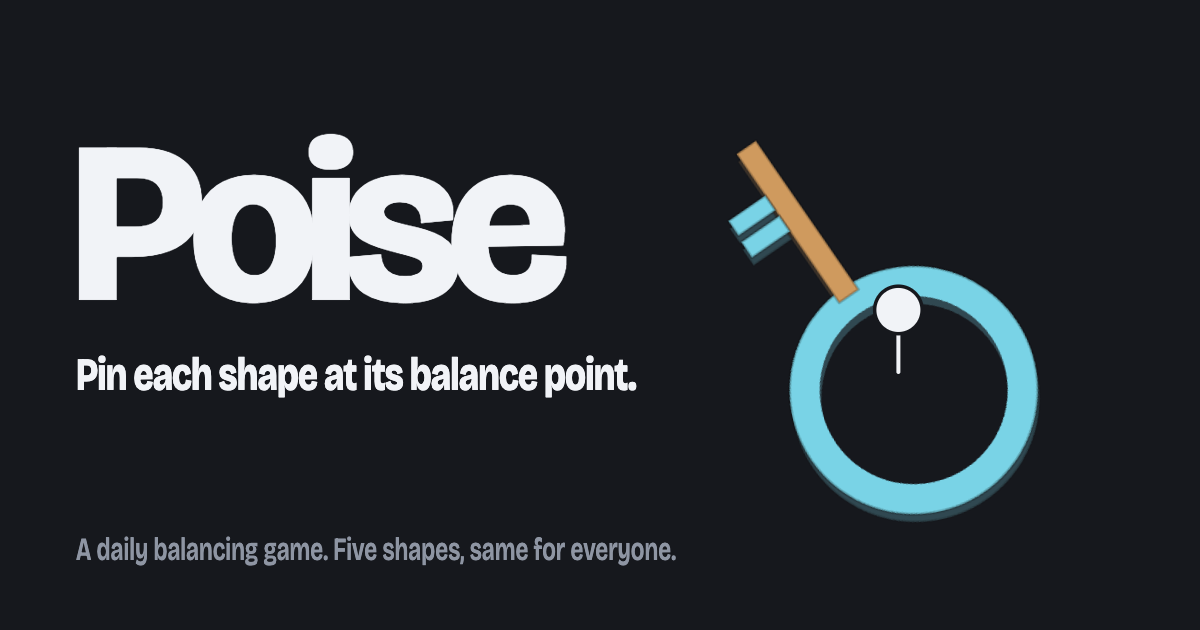
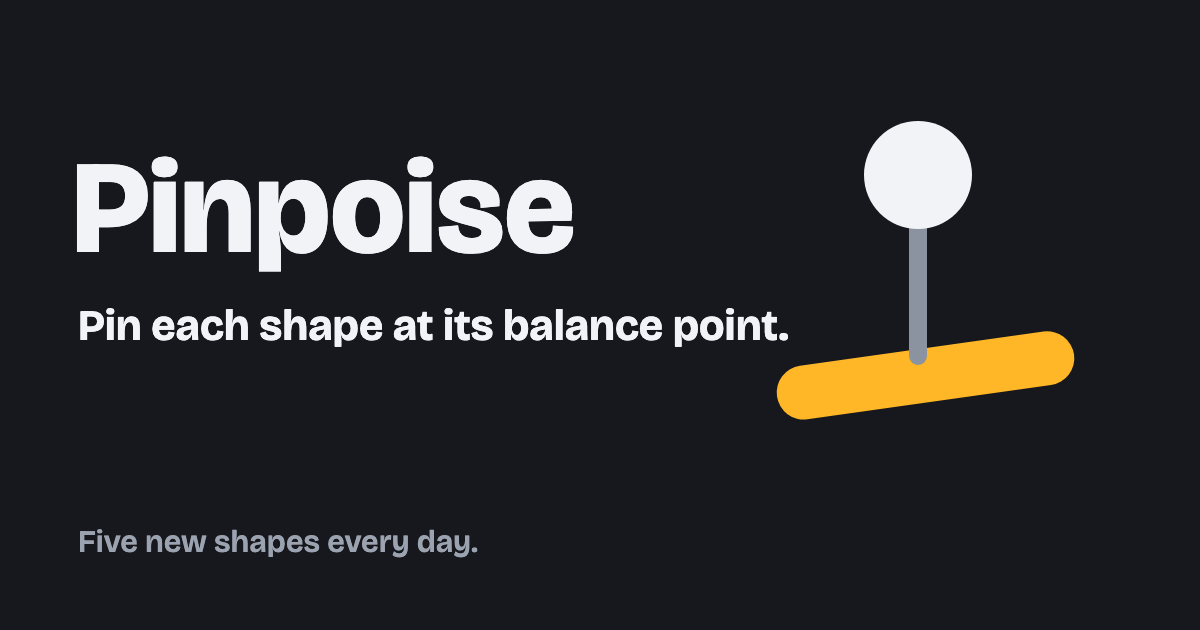
Rebrand Poise as Pinpoise

Changed region(s): [[0.0617, 0.181, 0.8942, 0.8444], [0.0617, 0.8444, 0.555, 0.9048]]

diff --git a/Source/index.html b/Source/index.html
@@ -3,36 +3,41 @@
 <head>
 <meta charset="utf-8">
 <meta name="viewport" content="width=device-width, initial-scale=1, viewport-fit=cover">
-<title>Poise: the daily balancing game</title>
-<meta name="description" content="Five shapes a day. Place the pin where each one balances. A daily physics puzzle, the same shapes for everyone. Free, no account.">
+<title>Pinpoise: Find the Balance Point</title>
+<meta name="description" content="Five new shapes every day. Place the pin where each one balances, then compare your score with other players. Free, no account.">
 <meta name="google-site-verification" content="KyjTWZ-dj4P5R8ARNsz_ixJ3lDf_xHzlX2uDuGJIndo">
 <meta name="theme-color" content="#eceef2" media="(prefers-color-scheme: light)">
 <meta name="theme-color" content="#16181d" media="(prefers-color-scheme: dark)">
 <meta name="color-scheme" content="light dark">
-<link rel="canonical" href="%SITE_URL%/">
-<meta property="og:site_name" content="Poise">
-<meta property="og:title" content="Poise: the daily balancing game">
-<meta property="og:description" content="Five shapes a day. Find where each one balances, then see how you compare.">
+<link rel="canonical" href="https://poisedaily.com/">
+<meta name="application-name" content="Pinpoise">
+<meta property="og:site_name" content="Pinpoise">
+<meta property="og:title" content="Pinpoise: Find the Balance Point">
+<meta property="og:description" content="Five new shapes every day. Find where each one balances, then compare your score.">
 <meta property="og:type" content="website">
-<meta property="og:url" content="%SITE_URL%/">
-<meta property="og:image" content="%SITE_URL%/og.png">
+<meta property="og:url" content="https://poisedaily.com/">
+<meta property="og:image" content="https://poisedaily.com/og.png">
 <meta property="og:image:width" content="1200">
 <meta property="og:image:height" content="630">
-<meta property="og:image:alt" content="Poise: a wooden key shape balanced on a pin, with the words Pin each shape at its balance point.">
+<meta property="og:image:alt" content="Pinpoise, a daily game about finding where shapes balance.">
 <meta name="twitter:card" content="summary_large_image">
 <meta name="apple-mobile-web-app-capable" content="yes">
 <meta name="mobile-web-app-capable" content="yes">
-<meta name="apple-mobile-web-app-title" content="Poise">
+<meta name="apple-mobile-web-app-title" content="Pinpoise">
 <meta name="apple-mobile-web-app-status-bar-style" content="default">
-<link rel="icon" href="/favicon-48.png" type="image/png" sizes="48x48">
+<link rel="icon" href="/favicon-48.png" type="image/png" sizes="96x96">
+<link rel="shortcut icon" href="/favicon.ico">
 <link rel="apple-touch-icon" href="/apple-touch-icon.png">
 <link rel="manifest" href="/manifest.webmanifest">
 <link rel="preload" href="/fonts/bricolage-latin.woff2" as="font" type="font/woff2" crossorigin>
+<script type="application/ld+json">
+{"@context":"https://schema.org","@type":"WebSite","name":"Pinpoise","alternateName":["poisedaily.com"],"url":"https://poisedaily.com/"}
+</script>
 </head>
 <body>
 <main id="app"></main>
 <div id="sr" class="vh" role="status" aria-live="polite" aria-atomic="true"></div>
-<noscript><p style="font:600 1.1rem/1.4 system-ui,sans-serif;padding:24px;max-width:32rem">Poise is a daily balancing game and needs JavaScript. Turn it on and reload to play today’s five shapes.</p></noscript>
+<noscript><p style="font:600 1.1rem/1.4 system-ui,sans-serif;padding:24px;max-width:32rem">Pinpoise is a daily balancing game and needs JavaScript. Turn it on and reload to play today’s five shapes.</p></noscript>
 <script type="module" src="/src/main.ts"></script>
 </body>
 </html>

diff --git a/Source/src/game.ts b/Source/src/game.ts
@@ -191,15 +191,23 @@ function matsOf(R: Shape) {
 
 function legend(R: Shape) {
   const u = matsOf(R);
-  const maxDensity = Math.max(...u.map((t) => MAT[t][1]));
+  const densities = u.map((t) => MAT[t][1]);
+  const minDensity = Math.min(...densities);
+  const maxDensity = Math.max(...densities);
   const items = u
     .map((t) => {
       const name = t[0].toUpperCase() + t.slice(1);
-      const width = Math.max(10, (MAT[t][1] / maxDensity) * 100);
-      return `<span class="lg-item" role="listitem" aria-label="${name}, density ${MAT[t][1]} grams per cubic centimetre"><span class="lg-name"><i class="lg-swatch" style="background:${MAT[t][0] || R.a}"></i><b>${name}</b><em>${MAT[t][1]} g/cm³</em></span><span class="lg-track" aria-hidden="true"><i style="width:${width}%"></i></span></span>`;
+      const density = MAT[t][1];
+      const ratio = density / minDensity;
+      const ratioText = (
+        ratio < 10 ? ratio.toFixed(1) : ratio.toFixed(0)
+      ).replace(".0", "");
+      const width = Math.max(12, (density / maxDensity) * 100);
+      const color = MAT[t][0] || R.a;
+      return `<span class="lg-item" role="listitem" style="--material:${color}" aria-label="${name}, ${ratioText} times the lightest material, density ${density} grams per cubic centimetre"><span class="lg-name"><i class="lg-swatch"></i><b>${name}</b><em>${ratioText}×</em></span><span class="lg-track" aria-hidden="true"><i style="width:${width}%"></i></span><small class="lg-density">${density} g/cm³</small></span>`;
     })
     .join("");
-  return `<div class="lg-wrap"><div class="lg-title"><b>Density</b><span>Heavier material pulls more</span></div><div class="lg" role="list" aria-label="Material density, lightest first">${items}</div></div>`;
+  return `<div class="lg-wrap"><div class="lg-title"><b>Density</b><span>More density. More pull.</span></div><div class="lg" role="list" aria-label="Material density, lightest first">${items}</div></div>`;
 }
 const dots = (g: Game) =>
   `<span class="dots" role="img" aria-label="Shape ${Math.min(g.r + 1, RN)} of ${RN}">${[...Array(RN)].map((_, i) => `<i class="${i < g.res.length ? "g" + gi(g.res[i].pts) : i === g.r ? "cur" : ""}"></i>`).join("")}</span>`;
@@ -232,7 +240,7 @@ function round() {
     : matchMedia("(pointer:coarse)").matches
       ? TAP_HINT
       : DRAG_HINT;
-  app.innerHTML = `<header class="site-header"><span class="wordmark">Poise</span>${navBtns()}</header>
+  app.innerHTML = `<header class="site-header"><span class="wordmark">Pinpoise</span>${navBtns()}</header>
   <div class="round-header"><span class="mute">No. ${noOf(g.d)} / Object ${g.r + 1} of ${RN}</span>${dots(g)}<span><b id="sc">${total(g)}</b><span class="mute"> / 500</span></span></div>
   <div id="stage"><canvas id="cv"></canvas></div><div class="foot fx" id="ft"><div class="object-heading"><h1 class="lede">${R.name}</h1>${legend(R)}</div><p class="small rule">Aim for the center of mass. It can lie in a gap.</p><span class="mute small" id="hint">${hint}</span><button class="btn" id="dp" disabled>Drop pin</button></div>`;
   app.scrollTop = 0;

diff --git a/Source/src/style.css b/Source/src/style.css
@@ -491,24 +491,27 @@ canvas {
 }
 .lg-wrap {
   width: 100%;
-  padding-top: 10px;
-  border-top: 1px solid var(--line);
+  padding: 12px;
+  border: 1px solid var(--line);
+  border-radius: var(--r-sheet);
+  background: color-mix(in srgb, var(--card) 46%, transparent);
 }
 .lg-title {
   display: flex;
   justify-content: space-between;
   align-items: baseline;
   gap: 16px;
-  margin-bottom: 10px;
+  margin-bottom: 12px;
 }
 .lg-title b {
-  font-size: 0.75rem;
+  font-size: 0.8125rem;
   letter-spacing: 0.08em;
   text-transform: uppercase;
 }
 .lg-title span {
-  color: var(--mute);
-  font-size: 0.75rem;
+  color: var(--ink);
+  font-size: 0.8125rem;
+  font-weight: 700;
 }
 .lg {
   display: grid;
@@ -524,14 +527,15 @@ canvas {
 }
 .lg-name {
   display: grid;
-  grid-template-columns: 22px minmax(0, 1fr) auto;
+  grid-template-columns: 26px minmax(0, 1fr) auto;
   gap: 8px;
   align-items: center;
 }
 .lg-swatch {
-  width: 22px;
-  height: 22px;
+  width: 26px;
+  height: 26px;
   border-radius: 6px;
+  background: var(--material);
   box-shadow: inset 0 0 0 1px color-mix(in srgb, var(--ink) 22%, transparent);
 }
 .lg-item b {
@@ -543,25 +547,36 @@ canvas {
   white-space: nowrap;
 }
 .lg-item em {
+  color: var(--ink);
+  font-size: 1rem;
+  font-weight: 800;
   font-style: normal;
-  color: var(--mute);
-  font-size: 0.75rem;
   font-variant-numeric: tabular-nums;
+  line-height: 1;
   white-space: nowrap;
+}
+.lg-density {
+  align-self: flex-end;
+  color: var(--mute);
+  font-size: 0.6875rem;
+  font-variant-numeric: tabular-nums;
+  line-height: 1;
 }
 .lg-track {
   display: block;
   width: 100%;
-  height: 5px;
+  height: 9px;
   overflow: hidden;
   border-radius: var(--r-round);
-  background: var(--line);
+  background: color-mix(in srgb, var(--line) 70%, transparent);
+  box-shadow: inset 0 0 0 1px var(--line);
 }
 .lg-track i {
   display: block;
   height: 100%;
   border-radius: inherit;
-  background: var(--ink);
+  background: var(--material);
+  box-shadow: inset 0 0 0 1px color-mix(in srgb, var(--ink) 24%, transparent);
 }
 .row {
   display: flex;

diff --git a/Source/src/end.ts b/Source/src/end.ts
@@ -50,13 +50,13 @@ export function end(rec: Rec, isNew: boolean) {
     names = rs.map((s) => s.name),
     rank = rankOf(rec.tot);
   app.innerHTML = `<section id="result-sheet" aria-label="Your results">
-    <header class="receipt-heading site-header"><span class="wordmark">Poise</span><div data-copy-exclude>${navBtns()}</div></header>
+    <header class="receipt-heading site-header"><span class="wordmark">Pinpoise</span><div data-copy-exclude>${navBtns()}</div></header>
     <div class="result-summary"><div class="rank-summary"><p class="mute small">No. ${noOf(rec.d)} · ${fmtDate(rec.d, true)}</p><h1 class="rank-pill" id="eh" tabindex="-1">${rank}</h1>${bellCurve(rec.tot)}${isNew ? '<p class="mute small">Personal best</p>' : ""}</div><p class="total"><b>${rec.tot}</b><span>/ 500</span></p></div>
     <div class="result-objects">${objects(rec, names, dpr)}</div>
     <div class="receipt-footer"><span class="pin-key"><i class="key-player"></i>Your pin <i class="key-target"></i>Balance point</span></div>
   </section>
   <div id="share-card" class="share-card" aria-hidden="true">
-    <div class="share-top"><span class="wordmark">Poise</span><span class="mute small">No. ${noOf(rec.d)} · ${fmtDate(rec.d, true)}</span></div>
+    <div class="share-top"><span class="wordmark">Pinpoise</span><span class="mute small">No. ${noOf(rec.d)} · ${fmtDate(rec.d, true)}</span></div>
     <div class="share-score"><div class="share-rank"><p class="share-tier rank-pill">${rank}${isNew ? " · Personal best" : ""}</p>${bellCurve(rec.tot)}</div><p class="total"><b>${rec.tot}</b><span>/ 500</span></p></div>
     <div class="result-objects">${objects(rec, names, 2)}</div>
     <div class="share-foot"><span class="pin-key"><i class="key-player"></i>Your pin <i class="key-target"></i>Balance point</span><span>${siteHost}</span></div>

diff --git a/Source/src/home.ts b/Source/src/home.ts
@@ -117,7 +117,7 @@ export function home() {
   app.className = "home-screen";
   if (!available(TODAY)) {
     stop();
-    app.innerHTML = `<header class="site-header"><span class="edition">Poise</span>${navBtns()}</header><div class="intro"><h1>Poise</h1><p class="pitch">Every shape in this edition has had its day.</p><p class="home-rule mute">A new edition is needed for fresh daily puzzles. Your archive and results are still here.</p></div>`;
+    app.innerHTML = `<header class="site-header"><span class="edition">Pinpoise</span>${navBtns()}</header><div class="intro"><h1>Pinpoise</h1><p class="pitch">Every shape in this edition has had its day.</p><p class="home-rule mute">A new edition is needed for fresh daily puzzles. Your archive and results are still here.</p></div>`;
     bindNav();
     return;
   }
@@ -138,7 +138,7 @@ export function home() {
       ? `Continue · ${Math.min(cont.length + 1, RN)} of ${RN}`
       : "Play today’s five";
   app.innerHTML = `<header class="site-header"><span class="edition">No. ${NO}<br><span class="mute">${fmtDate(TODAY, true)}</span></span>${navBtns()}</header>
-  <div class="intro"><h1>Poise</h1><p class="pitch">Pin each shape at its balance point.</p><p class="home-rule mute small">Aim for the center of mass, even in a gap.<br>Closer pins score more.</p></div>
+  <div class="intro"><h1>Pinpoise</h1><p class="pitch">Pin each shape at its balance point.</p><p class="home-rule mute small">Aim for the center of mass, even in a gap.<br>Closer pins score more.</p></div>
   <div id="stage"><canvas id="cv" aria-hidden="true"></canvas></div>
   <p class="cap mute small" id="cap" aria-hidden="true"></p>
   <div class="foot home-foot"><div class="edition"><span>${d ? "Today’s five · Complete" : "Today’s five"}</span></div>

diff --git a/Source/src/share.ts b/Source/src/share.ts
@@ -40,10 +40,11 @@ const SQUARES = [
 /** Wordle-style text: title, total, one square per shape. */
 export function shareText(r: Rec) {
   const site = (
-    (import.meta.env.VITE_SITE_URL as string | undefined) || ""
+    (import.meta.env.VITE_SITE_URL as string | undefined) ||
+    "https://poisedaily.com"
   ).replace(/\/$/, "");
   const lines = [
-    `Poise No. ${noOf(r.d)}  ${r.tot}/500`,
+    `Pinpoise No. ${noOf(r.d)}  ${r.tot}/500`,
     r.pts.map((p) => SQUARES[gi(p)]).join(""),
   ];
   if (site) lines.push(site);
@@ -83,7 +84,7 @@ export async function copyResult(r: Rec) {
   status.textContent = "";
   if (!navigator.clipboard?.write || typeof ClipboardItem === "undefined") {
     status.textContent =
-      "This browser can’t copy images. Use Copy text, or open Poise in Safari, Chrome or Edge.";
+      "This browser can’t copy images. Use Copy text, or open Pinpoise in Safari, Chrome or Edge.";
     return;
   }
   button.disabled = true;
@@ -166,7 +167,7 @@ export async function paintShare(source: HTMLElement): Promise<Blob> {
   const mute = css("--mute") || "#5f6674";
   const line = css("--line") || "#cdd2db";
   const wordmark =
-    source.querySelector(".wordmark")?.textContent?.trim() || "Poise";
+    source.querySelector(".wordmark")?.textContent?.trim() || "Pinpoise";
   const date =
     source.querySelector(".share-top .mute")?.textContent?.trim() || "";
   const tier = source.querySelector(".share-tier")?.textContent?.trim() || "";

diff --git a/Source/vite.config.ts b/Source/vite.config.ts
@@ -1,15 +1,7 @@
-import { defineConfig, loadEnv, type Plugin } from 'vite';
+import { defineConfig } from 'vite';
 
-/** Fills %SITE_URL% in index.html from VITE_SITE_URL (e.g. https://poise.example), so share cards get absolute URLs. */
-const siteUrl = (url: string): Plugin => ({
-  name: 'site-url',
-  transformIndexHtml: html => html.replaceAll('%SITE_URL%', url.replace(/\/$/, '')),
-  buildStart() { if (!url && process.env.NODE_ENV === 'production') console.warn('\n[poise] VITE_SITE_URL is not set: share cards (og:image) and the canonical link will be relative. Set it to your public URL before deploying.\n') },
-});
-
-export default defineConfig(({ mode }) => ({
+export default defineConfig({
   base: './',
-  plugins: [siteUrl(loadEnv(mode, process.cwd(), 'VITE_').VITE_SITE_URL ?? '')],
   server: { port: 5173, strictPort: true },
   build: { target: 'es2020', sourcemap: true },
-}));
+});

diff --git a/Source/src/dom.ts b/Source/src/dom.ts
@@ -25,7 +25,7 @@ export function say(msg: string) {
   }, 60);
 }
 export const setTitle = (s: string) => {
-  document.title = s ? `${s} · Poise` : "Poise: the daily balancing game";
+  document.title = s ? `${s} · Pinpoise` : "Pinpoise: Find the Balance Point";
 };
 export const eob = (u: number) =>
   1 + 2.7 * Math.pow(u - 1, 3) + 1.7 * Math.pow(u - 1, 2);
@@ -39,7 +39,7 @@ export const GRADES: [number, string][] = [
   [0, "Way off"],
 ];
 export const gi = (p: number) => GRADES.findIndex((q) => p >= q[0]);
-/** Estimated score percentile until Poise has a shared, opt-in score distribution. */
+/** Estimated score percentile until Pinpoise has a shared, opt-in score distribution. */
 export function percentileOf(total: number) {
   const z = (cl(total, 0, 500) - 225) / (85 * Math.SQRT2);
   const a = 0.147;

diff --git a/Source/public/sw.js b/Source/public/sw.js
@@ -1,4 +1,4 @@
-// Poise service worker: lets the game open and play offline. Today's puzzle only depends on the date, so it works with no network.
+// Pinpoise service worker: lets the game open and play offline. Today's puzzle only depends on the date, so it works with no network.
 // HTML is network-first so a new deploy is picked up as soon as you are online. Hashed assets never change, so they are cache-first.
 const CACHE = 'poise-v8';
 const SHELL = ['./', './manifest.webmanifest', './icon.svg'];

diff --git a/.tastemaker/style-lock.md b/.tastemaker/style-lock.md
@@ -1,8 +1,8 @@
-# Poise style lock
+# Pinpoise style lock
 
 ## North star
 
-Poise should feel like a quiet, self-explanatory daily balancing game.
+Pinpoise should feel like a quiet, self-explanatory daily balancing game.
 
 ## Visual system
 
@@ -14,7 +14,7 @@ Poise should feel like a quiet, self-explanatory daily balancing game.
 
 ## Palette
 
-Restored from the original Poise palette after the warm direction was rejected.
+Restored from the original palette after the warm direction was rejected.
 
 ### Light
 
@@ -43,11 +43,12 @@ Restored from the original Poise palette after the warm direction was rejected.
 
 ## Signature details
 
-- Logo: the existing tilted balance bar and pin mark. Search favicon uses a stable 48px PNG export of the same artwork.
+- Brand: Pinpoise is the trial name across the game, search metadata, installed-app labels, and shared results. The current domain remains poisedaily.com during the trial.
+- Logo: the existing tilted balance bar and pin mark. Search favicon uses a stable 96px PNG export of the same artwork.
 - Neutral player pin and balance target.
 - A plain framed play area keeps attention on the object.
 - Daily set strip and results sheet use rules and numbering like a printed test record.
-- Mixed-material objects use a shared density scale so relative weight is visible before the player aims.
+- Mixed-material objects use a framed, material-colored density scale with relative multipliers so weight differences are obvious before the player aims.
 - Main actions use squared instrument controls, not generic pill buttons.
 
 ## Guardrails

diff --git a/Source/README.md b/Source/README.md
@@ -1,4 +1,4 @@
-# Poise
+# Pinpoise
 
 A daily balancing game. Five objects, one attempt per object, a new seeded collection each day. Archive, Stats and Settings are retained; practice is removed.
 

diff --git a/README.md b/README.md
@@ -1,4 +1,4 @@
-# Poise
+# Pinpoise
 
 ## Play on your Mac
 
